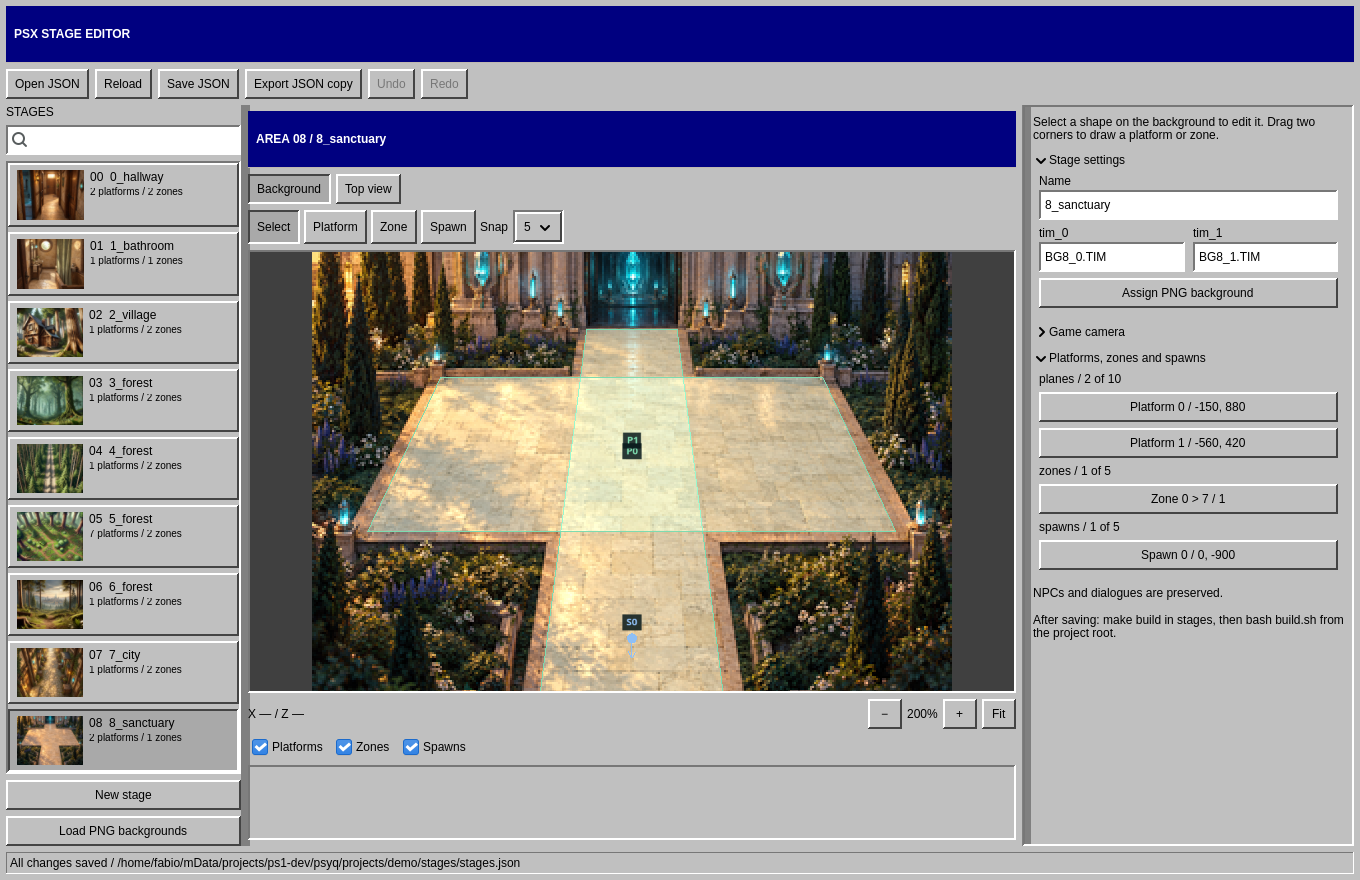
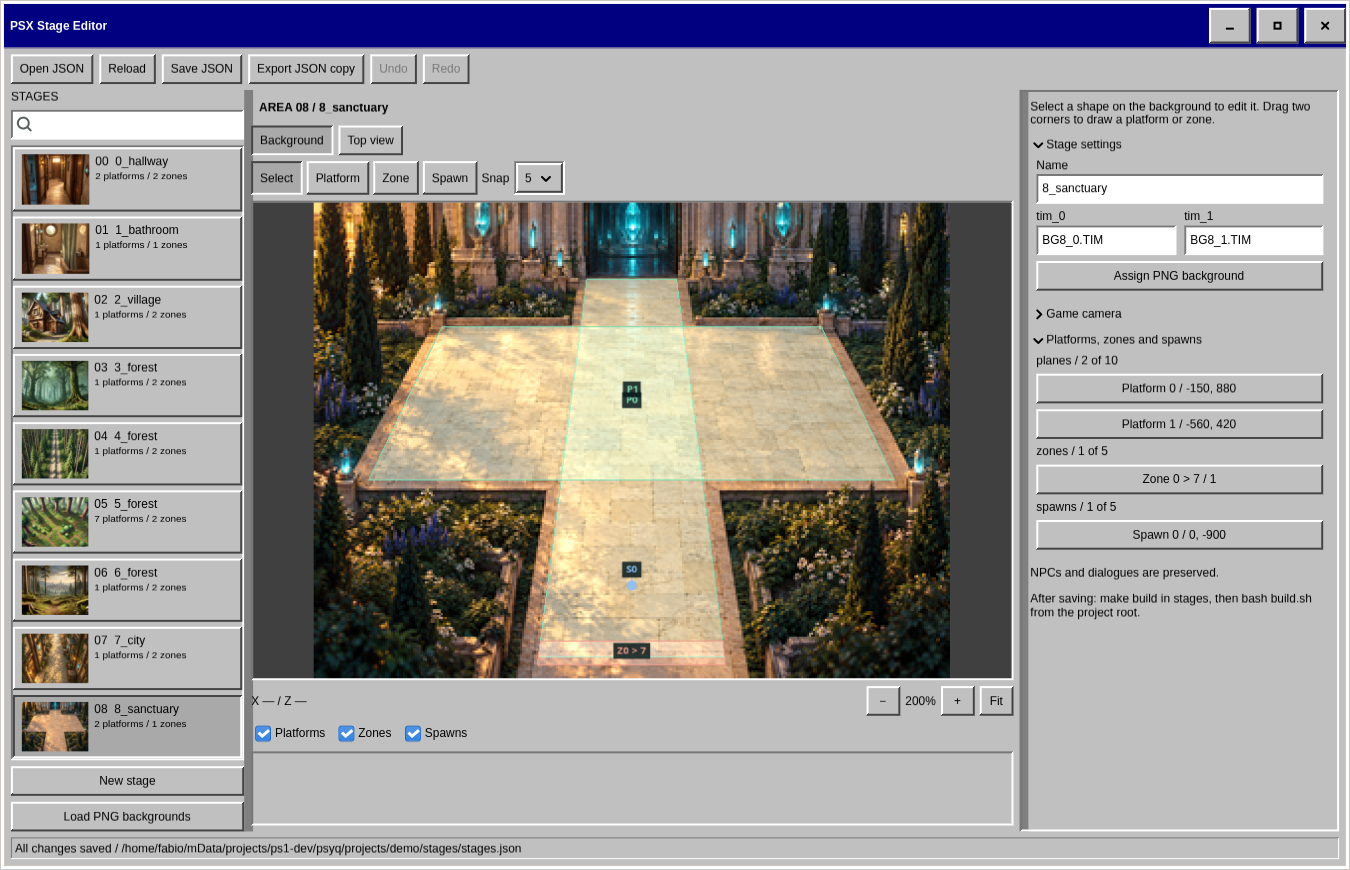
3d_editor button effects fix; stage_editor double top bar remove

diff --git a/psxstudio/3d_editor/ui.c b/psxstudio/3d_editor/ui.c
@@ -67,6 +67,10 @@ void editor_refresh(Editor *e) {
     if (!e->window)
         return;
     e->refreshing = TRUE;
+    gtk_toggle_button_set_active(GTK_TOGGLE_BUTTON(e->tool_buttons[0]), !e->move);
+    gtk_toggle_button_set_active(GTK_TOGGLE_BUTTON(e->tool_buttons[1]), e->move);
+    gtk_widget_set_sensitive(e->undo_button, e->undo->len > 0);
+    gtk_widget_set_sensitive(e->redo_button, e->redo->len > 0);
     gtk_editable_set_text(GTK_EDITABLE(e->name), e->mesh.name);
     gtk_drop_down_set_selected(GTK_DROP_DOWN(e->mode_drop), e->mode);
     gtk_drop_down_set_selected(GTK_DROP_DOWN(e->view_drop), e->view);
@@ -185,7 +189,20 @@ static void clicked(GtkButton *b, Editor *e) {
     action(e, GPOINTER_TO_INT(g_object_get_data(G_OBJECT(b), "action")));
 }
 static GtkWidget *button(Editor *e, const char *text, int code) {
-    GtkWidget *b = gtk_button_new_with_label(text);
+    GtkWidget *b;
+    if (code == 116 || code == 117) {
+        b = gtk_toggle_button_new_with_label(text);
+        e->tool_buttons[code - 116] = b;
+        if (code == 117)
+            gtk_toggle_button_set_group(GTK_TOGGLE_BUTTON(b),
+                                        GTK_TOGGLE_BUTTON(e->tool_buttons[0]));
+    } else {
+        b = gtk_button_new_with_label(text);
+    }
+    if (code == 110)
+        e->undo_button = b;
+    else if (code == 111)
+        e->redo_button = b;
     g_object_set_data(G_OBJECT(b), "action", GINT_TO_POINTER(code));
     g_signal_connect(b, "clicked", G_CALLBACK(clicked), e);
     return b;
@@ -895,14 +912,20 @@ void ui_create(Editor *e) {
     gtk_css_provider_load_from_string(
         css, "window {background:#c0c0c0;color:#000;font-family:Sans;font-size:12px;} button, "
              "dropdown, spinbutton, entry {border-radius:0;min-height:22px;} button "
-             "{background:#c0c0c0;border:2px solid;border-color:#fff #555 #555 #fff;padding:3px "
+             "{background:#c0c0c0;background-image:none;box-shadow:none;transition:none;"
+             "border:2px solid;border-color:#fff #555 #555 #fff;padding:3px "
              "7px;color:#000;} entry,spinbutton {background:#fff;color:#000;} frame {border:1px "
              "solid #808080;} headerbar.title {background:#000080;background-image:none;"
              "color:#fff;font-weight:bold;padding:4px 6px;border-radius:0;min-height:28px;} "
              "headerbar.title label {color:#fff;} headerbar.title button {min-height:18px;"
              "min-width:18px;padding:1px 4px;color:#000;background:#c0c0c0;} "
              "spinbutton button {min-width:14px;padding:0;border-width:1px;} .status {border:1px "
-             "inset #888;padding:4px;} dropdown {color:#000;background:#ddd;}");
+             "inset #888;padding:4px;} dropdown {color:#000;background:#ddd;} "
+             "button:hover {background:#d0d0d0;} "
+             "button:active, button:checked, headerbar.title button:active {"
+             "background:#999;background-image:none;border-color:#555 #fff #fff #555;} "
+             "button:focus-visible {outline:1px dotted #000;outline-offset:-5px;} "
+             "button:disabled {color:#777;background:#c0c0c0;}");
     gtk_style_context_add_provider_for_display(gtk_widget_get_display(GTK_WIDGET(e->window)),
                                                GTK_STYLE_PROVIDER(css),
                                                GTK_STYLE_PROVIDER_PRIORITY_APPLICATION);
@@ -1089,6 +1112,14 @@ void ui_create(Editor *e) {
 }
 void ui_smoke(Editor *e) {
     char *original = project_encode(e);
+    g_signal_emit_by_name(e->tool_buttons[1], "clicked");
+    g_assert_true(e->move);
+    g_assert_true(gtk_toggle_button_get_active(GTK_TOGGLE_BUTTON(e->tool_buttons[1])));
+    g_assert_false(gtk_toggle_button_get_active(GTK_TOGGLE_BUTTON(e->tool_buttons[0])));
+    action(e, 116);
+    g_assert_false(e->move);
+    g_assert_true(gtk_toggle_button_get_active(GTK_TOGGLE_BUTTON(e->tool_buttons[0])));
+    g_assert_false(gtk_toggle_button_get_active(GTK_TOGGLE_BUTTON(e->tool_buttons[1])));
     Mesh *m = &e->mesh;
     mesh_clear(m);
     mesh_init(m);
@@ -1101,8 +1132,11 @@ void ui_smoke(Editor *e) {
     action(e, 16);
     g_assert_cmpuint(m->faces->len, ==, 10);
     g_assert_cmpuint(m->vertices->len, ==, 12);
+    g_assert_true(gtk_widget_get_sensitive(e->undo_button));
+    g_assert_false(gtk_widget_get_sensitive(e->redo_button));
     editor_history(e, FALSE);
     g_assert_cmpuint(m->faces->len, ==, 6);
+    g_assert_true(gtk_widget_get_sensitive(e->redo_button));
     editor_history(e, TRUE);
     g_assert_cmpuint(m->faces->len, ==, 10);
     selected_clear(e);

diff --git a/psxstudio/stage_editor/ui.c b/psxstudio/stage_editor/ui.c
@@ -633,13 +633,20 @@ void ui_activate(GtkApplication *application,gpointer data) {
         "entry,dropdown { border-radius:0; background:#fff; color:#000; border:2px solid; border-color:#777 #fff #fff #777; min-height:22px; }"
         "entry { padding:2px 4px; } entry selection { background:#000080; color:white; }"
         "scrolledwindow { border:2px solid; border-color:#777 #fff #fff #777; }"
-        ".titlebar { background:#000080; color:white; padding:5px 8px; font-weight:bold; }"
+        "headerbar.titlebar { background:#000080; background-image:none; color:white; padding:4px 6px; font-weight:bold; border-radius:0; min-height:28px; }"
+        "headerbar.titlebar label { color:white; } headerbar.titlebar button { min-height:18px; min-width:18px; padding:1px 4px; }"
+        ".area-title { padding:5px 8px; font-weight:bold; }"
         ".small { font-size:10px; } .error { color:#900; } expander title { font-weight:bold; }"
         "checkbutton { color:black; } separator { background:#808080; min-height:1px; min-width:1px; } tooltip { color:black; background:#ffffdf; }"
         ".status { border:1px solid; border-color:#777 #fff #fff #777; padding:3px; }");
     gtk_style_context_add_provider_for_display(gtk_widget_get_display(s->window),GTK_STYLE_PROVIDER(css),GTK_STYLE_PROVIDER_PRIORITY_APPLICATION); g_object_unref(css);
     GtkWidget *main=box(GTK_ORIENTATION_VERTICAL,6); margins(main,6); gtk_window_set_child(GTK_WINDOW(s->window),main);
-    GtkWidget *brand=text("PSX STAGE EDITOR"); gtk_label_set_wrap(GTK_LABEL(brand),FALSE); gtk_widget_add_css_class(brand,"titlebar"); gtk_box_append(GTK_BOX(main),brand);
+    GtkWidget *header=gtk_header_bar_new(); gtk_widget_add_css_class(header,"titlebar");
+    GtkWidget *caption=text("PSX Stage Editor"); gtk_label_set_wrap(GTK_LABEL(caption),FALSE);
+    gtk_header_bar_pack_start(GTK_HEADER_BAR(header),caption);
+    gtk_header_bar_set_title_widget(GTK_HEADER_BAR(header),box(GTK_ORIENTATION_HORIZONTAL,0));
+    gtk_header_bar_set_decoration_layout(GTK_HEADER_BAR(header),":minimize,maximize,close");
+    gtk_window_set_titlebar(GTK_WINDOW(s->window),header);
     GtkWidget *toolbar=box(GTK_ORIENTATION_HORIZONTAL,6); gtk_box_append(GTK_BOX(main),toolbar);
     add_button(toolbar,s,"Open JSON",A_OPEN); add_button(toolbar,s,"Reload",A_RELOAD); add_button(toolbar,s,"Save JSON",A_SAVE); add_button(toolbar,s,"Export JSON copy",A_EXPORT);
     s->undo_button=button(s,"Undo",A_UNDO); s->redo_button=button(s,"Redo",A_REDO); gtk_box_append(GTK_BOX(toolbar),s->undo_button); gtk_box_append(GTK_BOX(toolbar),s->redo_button);
@@ -652,7 +659,7 @@ void ui_activate(GtkApplication *application,gpointer data) {
     add_button(left,s,"New stage",A_NEW); add_button(left,s,"Load PNG backgrounds",A_PNGS);
     GtkWidget *right_pane=gtk_paned_new(GTK_ORIENTATION_HORIZONTAL); gtk_paned_set_end_child(GTK_PANED(paned),right_pane); gtk_paned_set_position(GTK_PANED(paned),235);
     GtkWidget *center=box(GTK_ORIENTATION_VERTICAL,6); margins(center,6); gtk_paned_set_start_child(GTK_PANED(right_pane),center); gtk_paned_set_resize_end_child(GTK_PANED(right_pane),FALSE);
-    s->title=text(""); gtk_label_set_wrap(GTK_LABEL(s->title),FALSE); gtk_label_set_ellipsize(GTK_LABEL(s->title),PANGO_ELLIPSIZE_END); gtk_widget_add_css_class(s->title,"titlebar"); gtk_box_append(GTK_BOX(center),s->title);
+    s->title=text(""); gtk_label_set_wrap(GTK_LABEL(s->title),FALSE); gtk_label_set_ellipsize(GTK_LABEL(s->title),PANGO_ELLIPSIZE_END); gtk_widget_add_css_class(s->title,"area-title"); gtk_box_append(GTK_BOX(center),s->title);
     GtkWidget *view=box(GTK_ORIENTATION_HORIZONTAL,5); gtk_box_append(GTK_BOX(center),view);
     for (int i=0;i<2;i++) {
         s->view_buttons[i]=gtk_button_new_with_label(i?"Top view":"Background"); g_object_set_data(G_OBJECT(s->view_buttons[i]),"top",GINT_TO_POINTER(i));

diff --git a/psxstudio/3d_editor/editor.h b/psxstudio/3d_editor/editor.h
@@ -35,6 +35,7 @@ struct Editor {
     GtkWidget *snap, *size, *sides, *distance, *position[3], *transform[3], *vertex[3],
         *uv_fields[4][2];
     GtkWidget *grid_check, *edge_check, *ydown_check, *format_drop;
+    GtkWidget *tool_buttons[2], *undo_button, *redo_button;
     Mesh mesh;
     GArray *selection;
     GPtrArray *undo, *redo;
